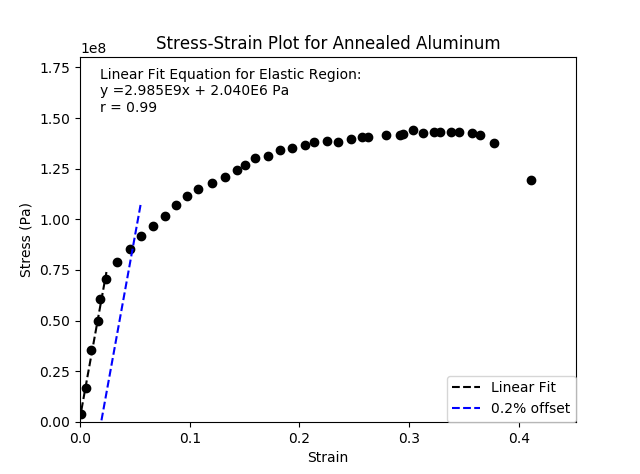
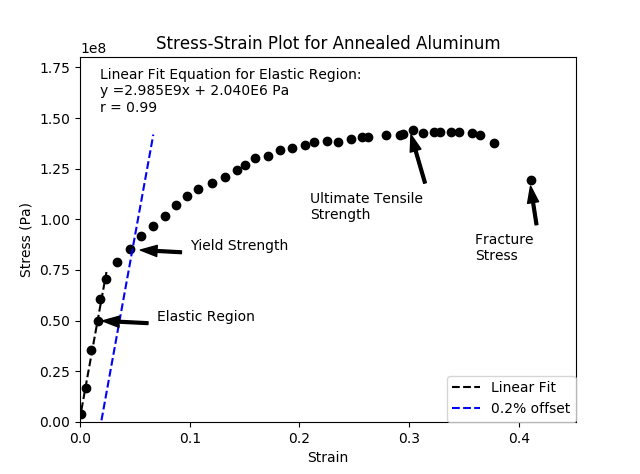
finished version

diff --git a/gradients.py b/gradients.py
@@ -10,15 +10,15 @@ def read_format_data(filename):
     l_0 = {
         "as_received": 32.033333333333333,
         "annealed": 31.113333333333,
-        "cold_rolled": 19.4
+        "cold_rolled": 39.4
     }
     csa = {
-        "as_received": 1.15759 * 10**-5,
-        "cold_rolled": 7.9576 * 10**-6,
-        "annealed": 1.5616 * 10**-5
+        "as_received": 1.15759 * 10 ** -5,
+        "cold_rolled": 7.9576 * 10 ** -6,
+        "annealed": 1.5616 * 10 ** -5
     }
     points["Strain"] = [(x / l_0[name]) for x in points["Strain"]]
-    points["Stress"] = [(x * 9.80665)/csa[name] for x in points["Stress"]]
+    points["Stress"] = [(x * 9.80665) / csa[name] for x in points["Stress"]]
 
     return points
 
@@ -60,23 +60,40 @@ def plot_values(title_name, points, reg_values):
     plt.text(spacing_x * 0.04, spacing_y * 0.85,
              "Linear Fit Equation for Elastic Region: \ny ={0:.3f}E9x + {1:.3f}E6 Pa \nr = {2:.2f}"
              .format(
-                 (reg_values[0]/10**9),
-                 (reg_values[1]/10**6),
+                 (reg_values[0] / 10 ** 9),
+                 (reg_values[1] / 10 ** 6),
                  reg_values[2]))
 
-    plt.plot(points["Strain"][:7], f(points["Strain"][:7], reg_values[0], reg_values[1]), "k--",
+    plt.plot(points["Strain"][:reg_num], f(points["Strain"][:reg_num], reg_values[0], reg_values[1]), "k--",
              label="Linear Fit")
 
-    plt.plot(points["Strain"][:9], offset(points["Strain"][:9], reg_values[0], reg_values[1]), label="0.2% offset")
+    plt.plot(points["Strain"][:offset_num], offset(points["Strain"][:offset_num], reg_values[0], reg_values[1]), "b--",
+             label="0.2% offset")
 
     plt.legend(loc=4, borderaxespad=0.)
 
+    plt.annotate("Elastic Region", xy=(0.026, 9 * 10 ** 7), xytext=(0.04, 8 * 10 ** 7),
+                 arrowprops=dict(facecolor='black', shrink=0.1, width=2, headwidth=8))
+
+    plt.annotate("Yield \nStrength", xy=(0.075, 2.53 * 10 ** 8), xytext=(0.077, 1.8 * 10 ** 8),
+                 arrowprops=dict(facecolor='black', shrink=0.1, width=2, headwidth=8))
+
+    plt.annotate("Ultimate Tensile \nStrength", xy=(0.06, 2.66 * 10 ** 8), xytext=(0.07, 2.9 * 10 ** 8),
+                 arrowprops=dict(facecolor='black', shrink=0.1, width=2, headwidth=8))
+
+    plt.annotate("Fracture \nStress", xy=(0.0957, 2.17 * 10 ** 8), xytext=(0.091, 1.3 * 10 ** 8),
+                 arrowprops=dict(facecolor='black', shrink=0.1, width=2, headwidth=8))
     plt.show()
 
 
+annealed = [6, 9]  # reg_num, offset num
+as_received = [10, 14]
+cold_rolled = [7, 11]
+
+reg_num = annealed[0]
+offset_num = annealed[1]
 points = read_format_data("annealed.csv")
-reg_values = regression(points["Strain"][:6], points["Stress"][:6])
+reg_values = regression(points["Strain"][:reg_num], points["Stress"][:reg_num])
 plot_values("Annealed", points, reg_values)
 
-
-
+print(points['Stress'][-1])
